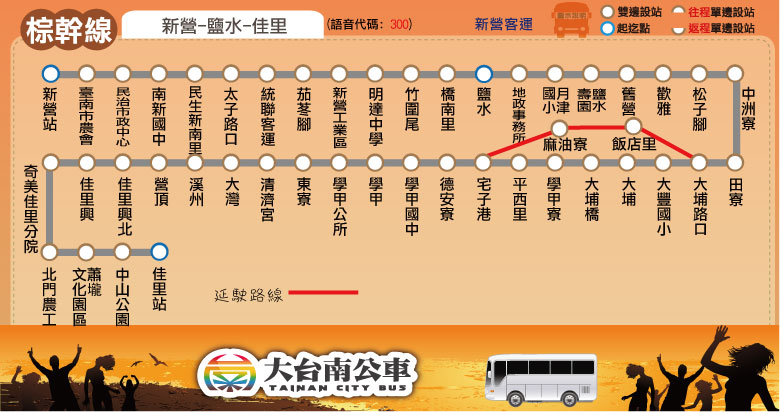
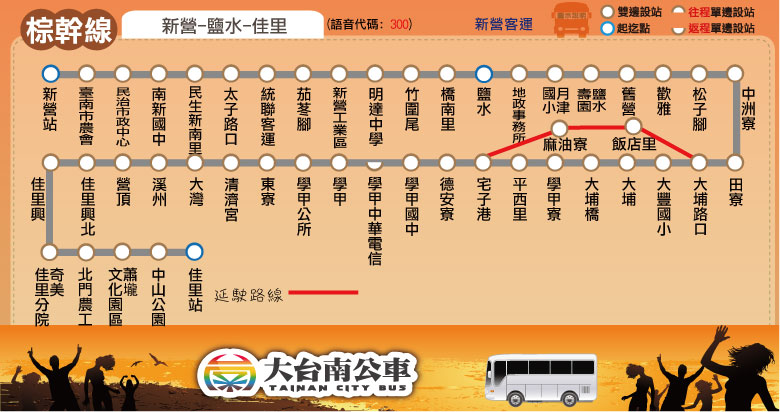
Add new stop in brown line, and add news in br,br2,br3,br3-1,5,h62

diff --git a/brown/brown.html b/brown/brown.html
@@ -17,7 +17,7 @@
 <body>
 <script type="text/javascript">
 	block_header();
-	block_route_map('https://mapsengine.google.com/map/edit?mid=zT0XIOZRtlhg.kjdt4phnE_dw');
+	block_route_map('https://mapsengine.google.com/map/edit?mid=zT0XIOZRtlhg.kjdt4phnE_dw','103年12月13日及14日上午07:00～下午17:30期間，新營區民權路（三民路至民治路）路段因2014嘉年華會活動道路封閉，本路線【棕幹線】於該二天下午16:50～17:30時段之班次配合繞道行駛。<br /><br />棕幹線改道動線如下：大同路→民治路→中正路→民生路→民治路→原路線，暫不停靠「市府民治中心」、「南新國中」站點。');
 	block_route_info(route_interval,'新營客運、興南客運','尖30離30~60','里程計費','http://2384.tainan.gov.tw:8080/AGPSRemoteQuery3/ajaxBus.jsp?pathId=1300&locale=zh_TW');
 	block_fare(0, null);
 	block_time_schedule('新營','佳里','');

diff --git a/city_bus/city_bus_5.html b/city_bus/city_bus_5.html
@@ -17,7 +17,7 @@
 <body>
 <script type="text/javascript">
 	block_header();
-	block_route_map('https://mapsengine.google.com/map/edit?mid=zT0XIOZRtlhg.kC3M0a-uikZY');
+	block_route_map('https://mapsengine.google.com/map/edit?mid=zT0XIOZRtlhg.kC3M0a-uikZY','配合工務局103年12月14日(星期日)至19日(星期五)「崇明路路面改善工程」交通管制，本市公車5路於崇明路沿線站位「崇明國中」、「市立醫院」(崇明路上)、「崇明路」等3站位於施工期間暫不停靠，造成不便敬請見諒。<img src="http://2384.tainan.gov.tw/TNWeb/images/news/20141212164602123.JPG" width="400">');
 	block_route_info(route_interval,'府城客運','尖10~20離30','一段票','http://2384.tainan.gov.tw:8080/AGPSRemoteQuery3/ajaxBus.jsp?pathId=10164&locale=zh_TW');
 	block_fare(1, null);
 	document.write('<div id="timetable">\

diff --git a/hsr_shuttle/hsr_shuttle_h62.html b/hsr_shuttle/hsr_shuttle_h62.html
@@ -17,7 +17,7 @@
 <body>
 <script type="text/javascript">
 	block_header();
-	block_route_map(null);
+	block_route_map(null,'本路線高鐵快捷公車「高鐵台南站－奇美醫院」將自12/25(四)起新增「南紡夢時代」站。<br />● 奇美醫院往高鐵(上客)：南紡夢時代中華東路側<br />● 高鐵往奇美醫院(下客)：台南市東區中華東路一段193號前，站點地圖請參閱<a href="http://snnew.sg1010.myweb.hinet.net/1031212-1.pdf" target="_blank">附件</a>。');
 	block_route_info(route_interval,'興南客運','15~30分一班','免費','http://2384.tainan.gov.tw:8080/AGPSRemoteQuery3/ajaxBus.jsp?pathId=10265&locale=zh_TW');
 	document.write('<div id="wrapper3">\
 	<a name="fare"></a>\

diff --git a/brown/brown_3_1.html b/brown/brown_3_1.html
@@ -17,7 +17,7 @@
 <body>
 <script type="text/javascript">
 	block_header();
-	block_route_map(null);
+	block_route_map(null,'103年12月13日及14日上午07:00～下午17:30期間，新營區民權路（三民路至民治路）路段因2014嘉年華會活動道路封閉，本路線【棕3-1】配合於該時段改道行駛。<br /><br />棕3-1改道動線如下：中山路→中正路→長榮路二段→原路線，暫不停靠「三民路口」、「市府民治中心」站點。');
 	block_route_info(route_interval,'新營客運','','里程計費','http://2384.tainan.gov.tw:8080/AGPSRemoteQuery3/ajaxBus.jsp?pathId=1303&locale=zh_TW');
 	block_fare(0, null);
 	block_time_schedule('新營','鐵線里','');

diff --git a/brown/brown_3.html b/brown/brown_3.html
@@ -17,7 +17,7 @@
 <body>
 <script type="text/javascript">
 	block_header();
-	block_route_map(null);
+	block_route_map(null,'103年12月13日及14日上午07:00～下午17:30期間，新營區民權路（三民路至民治路）路段因2014嘉年華會活動道路封閉，本路線【棕3】配合於該時段改道行駛。<br /><br />棕3改道動線如下：中山路→中正路→長榮路二段→原路線，暫不停靠「三民路口」、「市府民治中心」站點。');
 	block_route_info(route_interval,'新營客運','','里程計費','http://2384.tainan.gov.tw:8080/AGPSRemoteQuery3/ajaxBus.jsp?pathId=1303&locale=zh_TW');
 	block_fare(0, null);
 	block_time_schedule('新營','南港里','');

diff --git a/brown/brown_2.html b/brown/brown_2.html
@@ -17,7 +17,7 @@
 <body>
 <script type="text/javascript">
 	block_header();
-	block_route_map(null);
+	block_route_map(null,'103年12月13日及14日上午07:00～下午17:30期間，新營區民權路（三民路至民治路）路段因2014嘉年華會活動道路封閉，本路線【棕2】配合於該時段改道行駛。<br /><br />棕2改道動線如下：中山路→中正路→長榮路二段→原路線，暫不停靠「三民路口」、「市府民治中心」站點。');
 	block_route_info(route_interval,'新營客運','','里程計費','http://2384.tainan.gov.tw:8080/AGPSRemoteQuery3/ajaxBus.jsp?pathId=1302&locale=zh_TW');
 	block_fare(0, null);
 	block_time_schedule('新營','下中','');

diff --git a/route/fare_and_time/brown.js b/route/fare_and_time/brown.js
@@ -10,7 +10,7 @@ brown_interval_stop = [
 ["大豐國小","大埔","大埔橋"], // 大埔
 ["學甲寮","平西里","(繞)飯店里","(繞)麻油寮"], // 學甲寮, 麻油寮
 ["宅子港","德安寮"], // 宅子港
-["學甲國中","學甲","學甲公所","東寮"], // 學甲
+["學甲國中","學甲中華電信","學甲","學甲公所","東寮"], // 學甲
 ["清濟宮","大灣","溪州","營頂"], // 大灣
 ["佳里興北","佳里興","奇美佳里分院","北門農工","蕭壠文化園區"], // 佳里興
 ["中山公園","佳里站"] // 佳里
